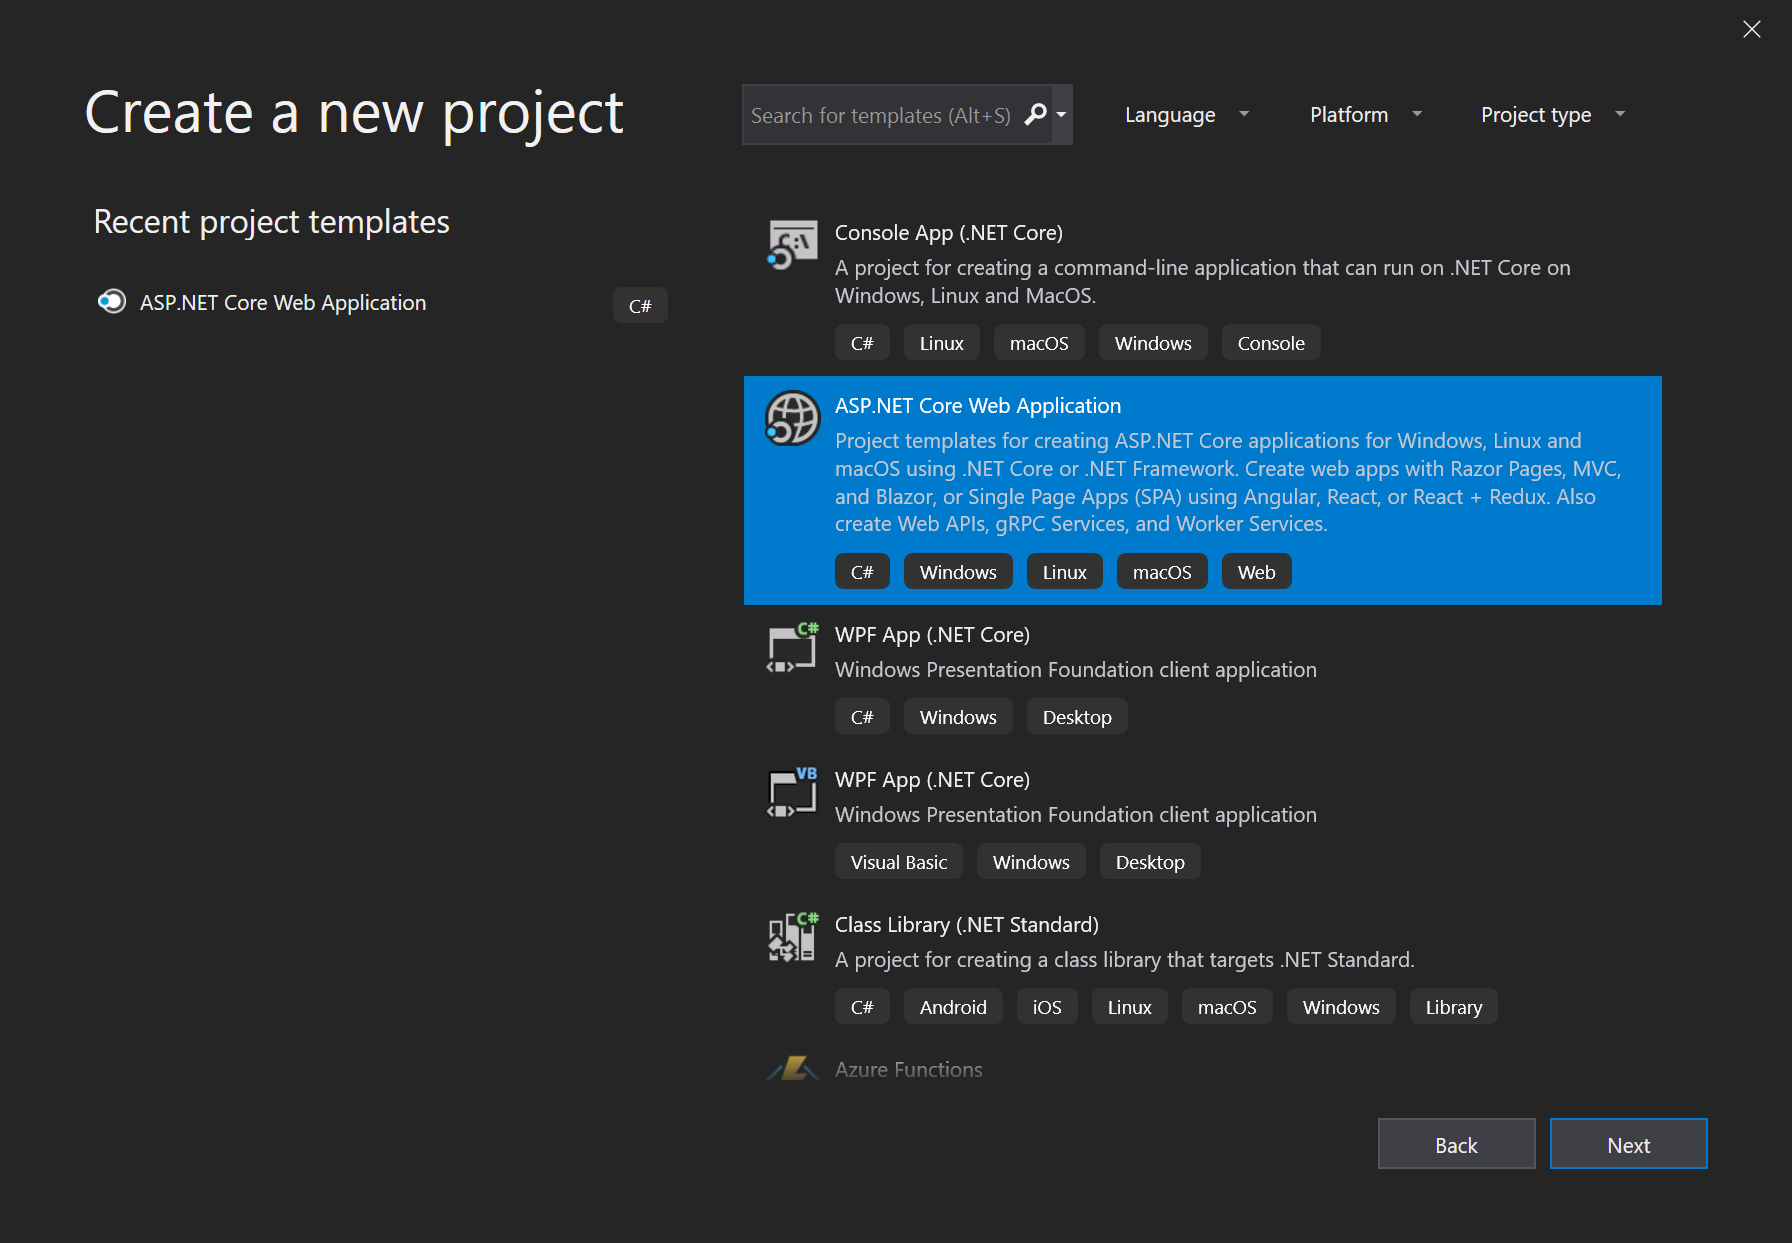
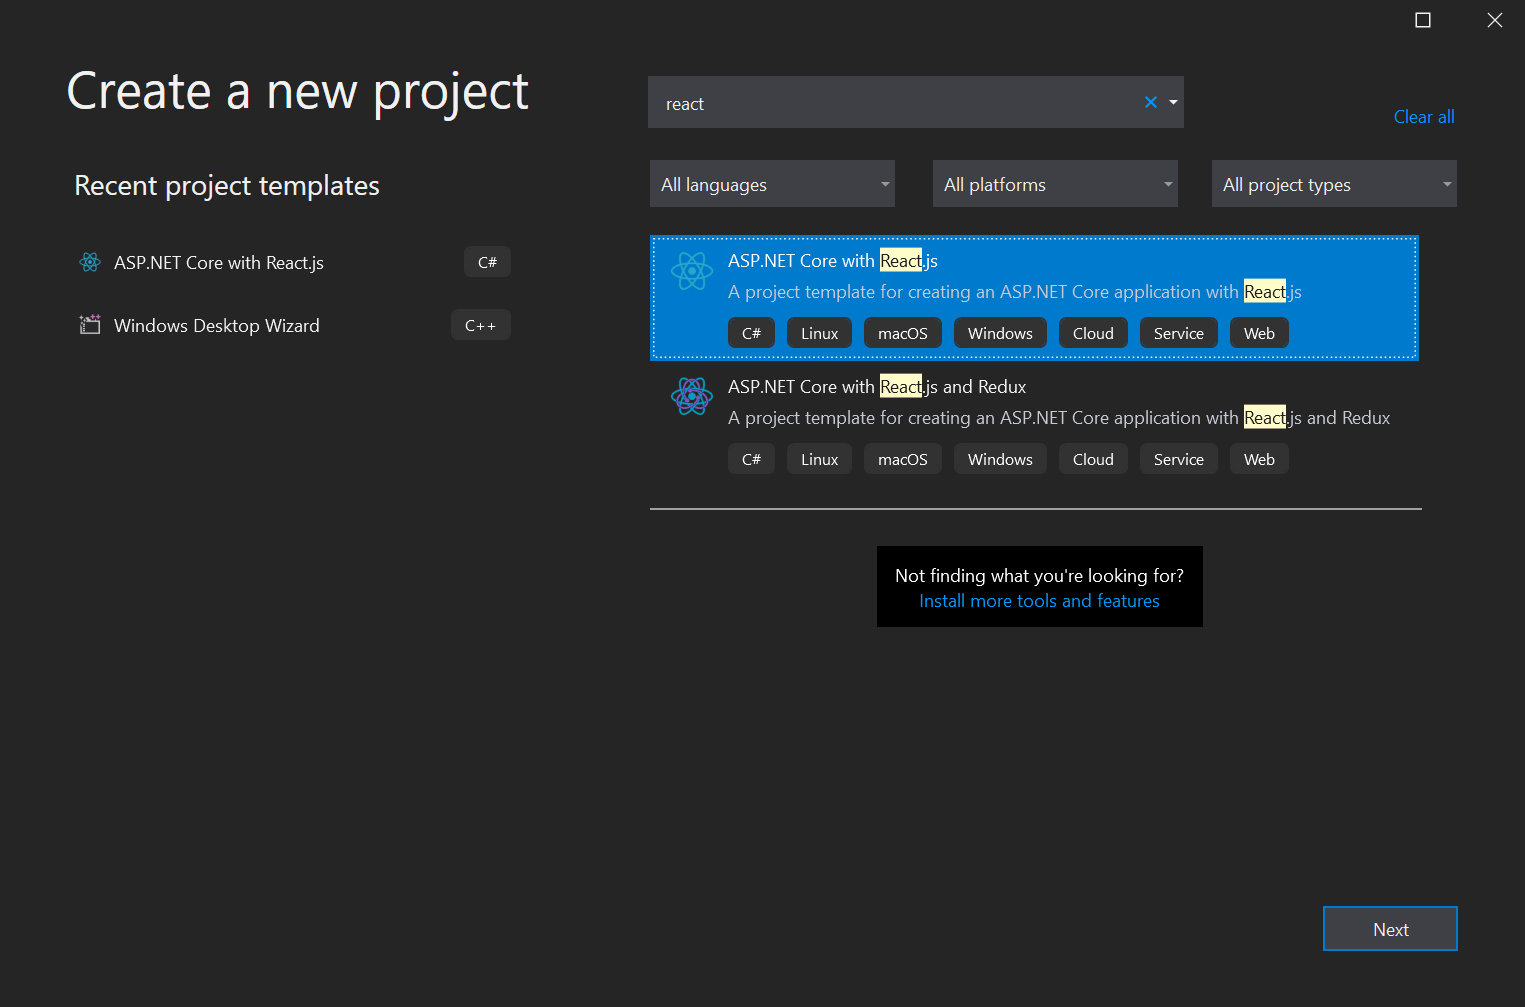
Refresh Visual Studio Edge debugging docs
The project template to be used in VS 2019 changed so the documentation
wasn't correct anymore. The wording had to be changed and so did the
screenshot.

The UI of the react.js webapp also changed, so the screenshots had to be
updated too.

I also changed some of the wording as per the MWSG.

Fixes #1350

diff --git a/microsoft-edge/visual-studio/index.md b/microsoft-edge/visual-studio/index.md
@@ -34,38 +34,35 @@ The simplified workflow allows you to debug JavaScript that run in Microsoft Edg
 
 ### Create a new ASP.NET Core web app  
 
-Open Visual Studio 2019 and choose **Create a new project**.  On the next screen, choose **ASP.NET Core Web app** > **Next**.  
+Open Visual Studio 2019 and select **Create a new project**.  In the search box on the next screen, enter **react**.  Select **ASP.NET Core with React.js** from the list of templates and then **Next**.  
 
-:::image type="complex" source="./media/create-new-project.png" alt-text="Create a new ASP.NET Core Web app" lightbox="./media/create-new-project.png":::
-   Create a new ASP.NET Core Web app  
+This **React.js** template specifies how to integrate React.js with an ASP.NET Core app.  
+
+:::image type="complex" source="./media/create-new-project.png" alt-text="Create a new ASP.NET Core Web app with React.js" lightbox="./media/create-new-project.png":::
+   Create a new ASP.NET Core Web app with React.js  
 :::image-end:::  
-
-Provide a **Project name** for your new project and choose **Create**.  For the purposes of the example, choose **React.js** as the template, and choose **Create**.  The **React.js** template specifies how to integrate React.js with an ASP.NET Core app.  
 
 ### Launch Microsoft Edge from Visual Studio  
 
-After you create your project, open `ClientApp/src/components/Counter.js`.  Now, to use Visual Studio to debug JavaScript, choose the dropdown next to the green **Play** button and **IIS Express**.  
+After you create your project, open `ClientApp/src/components/Counter.js`.  Now, to use Visual Studio to debug JavaScript, select the dropdown next to the green **Play** button and **IIS Express**.  
 
 :::image type="complex" source="./media/vs-dropdown.png" alt-text="The dropdown next to the green Play button and IIS Express" lightbox="./media/vs-dropdown.png":::
    The dropdown next to the green **Play** button and **IIS Express**  
 :::image-end:::  
 
-Choose **Script Debugging** > **Enabled**.  
+Select **Script Debugging** > **Enabled**.  
 
 :::image type="complex" source="./media/enable-script-debugging.png" alt-text="Turn on script debugging in Visual Studio" lightbox="./media/enable-script-debugging.png":::
    Turn on script debugging in Visual Studio  
 :::image-end:::  
 
-In the same dropdown, choose **Web Browser** > the preview channel of Microsoft Edge that you want Visual Studio to launch, such as Microsoft Edge Canary, Dev, or Beta.  If you are not already using one of the Microsoft Edge preview channels, navigate to [Download Microsoft Edge Insider Channels][MicrosoftedgeinsiderDownload] to download one.  
+In the same dropdown, select **Web Browser** > the preview channel of Microsoft Edge that you want Visual Studio to launch, such as Microsoft Edge Canary, Dev, or Beta.  If you are not already using one of the Microsoft Edge preview channels, navigate to [Download Microsoft Edge Insider Channels][MicrosoftedgeinsiderDownload] to download one.  
 
-:::image type="complex" source="./media/set-web-browser.png" alt-text="Choose the preview channel of Microsoft Edge that you want Visual Studio to launch" lightbox="./media/set-web-browser.png":::
-   Choose the preview channel of Microsoft Edge that you want Visual Studio to launch  
+:::image type="complex" source="./media/set-web-browser.png" alt-text="Select the preview channel of Microsoft Edge that you want Visual Studio to launch" lightbox="./media/set-web-browser.png":::
+   Select the preview channel of Microsoft Edge that you want Visual Studio to launch  
 :::image-end:::  
 
-> [!NOTE]
-> If you choose Microsoft Edge \(EdgeHTML\), Visual Studio launches it instead of Microsoft Edge \(Chromium\).  [Install the one of the preview channels of Microsoft Edge][MicrosoftedgeinsiderDownload] or ensure that the version of Microsoft Edge installed on your machine is Microsoft Edge \(Chromium\) and not Microsoft Edge \(EdgeHTML\).  
-
-Now that Visual Studio is correctly configured, choose the green **Play** button.  Visual Studio builds your app, start the web server, launch Microsoft Edge, and navigate to `https://localhost:44362/` or whatever port is specified in `launchSettings.json`.  
+Now that Visual Studio is correctly configured, select the green **Play** button.  Visual Studio builds your app, starts the web server, launches Microsoft Edge, and navigates to `https://localhost:44362/` or whatever port is specified in `launchSettings.json`.  
 
 :::image type="complex" source="./media/edge-launch.png" alt-text="Microsoft Edge launches from Visual Studio" lightbox="./media/edge-launch.png":::
    Microsoft Edge launches from Visual Studio  
@@ -73,13 +70,13 @@ Now that Visual Studio is correctly configured, choose the green **Play** button
 
 ### Debug JavaScript running in Microsoft Edge  
 
-Switch back to Visual Studio.  In `Counter.js`, to set a breakpoint on Line 13, choose the gutter next to the line.  
+Switch back to Visual Studio.  In `Counter.js`, to set a breakpoint on Line 13, select the gutter next to the line.  
 
-:::image type="complex" source="./media/set-breakpoint.png" alt-text="Choose the gutter next to Line 13 in Counter.js to set a breakpoint in Visual Studio" lightbox="./media/set-breakpoint.png":::
-   Choose the gutter next to Line 13 in `Counter.js` to set a breakpoint in Visual Studio  
+:::image type="complex" source="./media/set-breakpoint.png" alt-text="Select the gutter next to Line 13 in Counter.js to set a breakpoint in Visual Studio" lightbox="./media/set-breakpoint.png":::
+   Select the gutter next to Line 13 in `Counter.js` to set a breakpoint in Visual Studio  
 :::image-end:::  
 
-Now switch back to the instance of Microsoft Edge that Visual Studio launched.  Choose on **Counter** in the NavMenu on the left of the webpage.  Now choose **Increment**.  
+Now switch back to the instance of Microsoft Edge that Visual Studio launched.  Select **Counter** in the navigation menu on the left of the webpage.  Now select **Increment**.  
 
 :::image type="complex" source="./media/edge-counter.png" alt-text="The Counter page in our ASP.NET Core web app" lightbox="./media/edge-counter.png":::
    The Counter page in our ASP.NET Core web app  
@@ -95,7 +92,7 @@ The example was just a minor demonstration of the functionality available in Vis
 
 ## Attach to Microsoft Edge  
 
-Previously, you had to launch Microsoft Edge from Visual Studio.  Now, you are able to attach the Visual Studio debugger to an already running instance of Microsoft Edge.  
+Previously, you launched Microsoft Edge from Visual Studio.  You can also attach the Visual Studio debugger to an already running instance of Microsoft Edge.  
 
 First, ensure that there are no running instances of Microsoft Edge.  Now, from your command line, run the following command.  
 
@@ -103,10 +100,10 @@ First, ensure that there are no running instances of Microsoft Edge.  Now, from 
 start msedge –remote-debugging-port=9222
 ```  
 
-From Visual Studio, open the **Debug** menu and choose **Attach to Process** or select `Ctrl`+`Alt`+`P`.  
+From Visual Studio, select **Debug** > **Attach to Process** or `Ctrl`+`Alt`+`P`.  
 
-:::image type="complex" source="./media/attach-to-process.png" alt-text="Choose Attach to Process in Visual Studio" lightbox="./media/attach-to-process.png":::
-   Choose **Attach to Process** in Visual Studio  
+:::image type="complex" source="./media/attach-to-process.png" alt-text="Select Attach to Process in Visual Studio" lightbox="./media/attach-to-process.png":::
+   Select **Attach to Process** in Visual Studio  
 :::image-end:::  
 
 From the **Attach to Process** dialog, set **Connection type** to **Chrome devtools protocol websocket (no authentication)**.  In the **Connecting target** textbox, type `http://localhost:9222/` and select `Enter`.  Review the list of open tabs you have in Microsoft Edge listed out in the **Attach to Process** dialog.  
@@ -115,13 +112,13 @@ From the **Attach to Process** dialog, set **Connection type** to **Chrome devto
    Configure the **Attach to Process** dialog in Visual Studio  
 :::image-end:::  
 
-Choose **Select...** > the checkbox next to **JavaScript (Microsoft Edge – Chromium)**.  To add tabs, navigate to new tabs, and close tabs and display the changes reflected in the **Attach to Process** dialog, choose the **Refresh** button.  Choose the tab you want to debug and choose **Attach**.  
+Select **Select** > the checkbox next to **JavaScript (Microsoft Edge – Chromium)**.  To add tabs, navigate to new tabs, and close tabs and display the changes reflected in the **Attach to Process** dialog, select the **Refresh** button.  Choose the tab you want to debug and select **Attach**.  
 
 The Visual Studio debugger is now attached to Microsoft Edge.  You may pause the running of JavaScript, set breakpoints, and review `console.log()` statements directly in the Debug Output window in Visual Studio.  
 
 ## Getting in touch with the Microsoft Visual Studio team  
 
-The Microsoft Visual Studio and Microsoft Edge teams wants to learn more about how you work with JavaScript in Visual Studio.  To send your feedback, choose the **Send Feedback** icon in Visual Studio or tweet [@VisualStudio and @EdgeDevTools][TwitterIntentTweetViualstudioEdgdevtools].  
+The Microsoft Visual Studio and Microsoft Edge teams wants to learn more about how you work with JavaScript in Visual Studio.  To send your feedback, select the **Send Feedback** icon in Visual Studio or tweet [@VisualStudio and @EdgeDevTools][TwitterIntentTweetViualstudioEdgdevtools].  
 
 :::image type="complex" source="./media/feedback-icon.png" alt-text="The Send Feedback icon in Visual Studio" lightbox="./media/feedback-icon.png":::
    The **Send Feedback** icon in Visual Studio  
